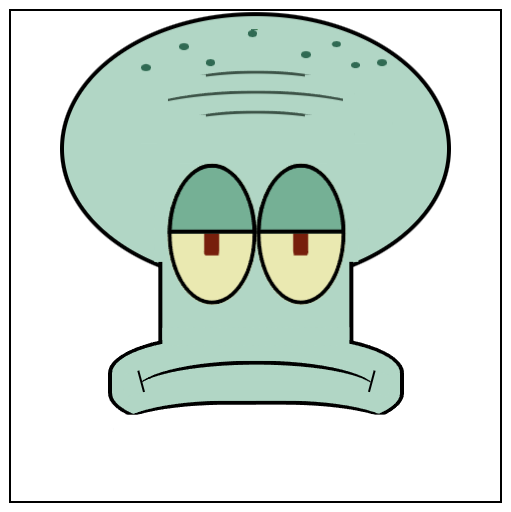
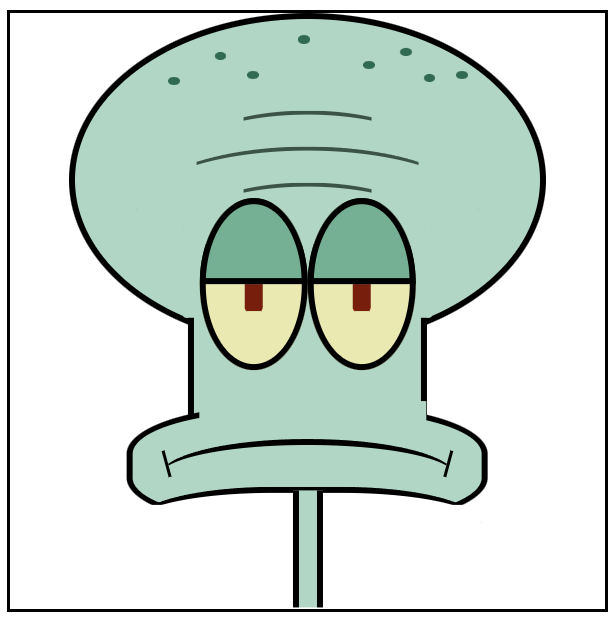
Version 0.1.0

diff --git a/style/index.sass b/style/index.sass
@@ -45,10 +45,8 @@ body
   position: relative
   font-size: calc(2vh + 2vw)
   @include square(20em)
-  
   @include flexCenterItems
   align-items: initial
-
 
   .head
     @include square(80%)
@@ -58,7 +56,7 @@ body
       @include rectangle(100%, 70%)
       border-radius: 100%
       background: $skinColor
-      transform: translateY(calc(var(--looking) * .6em)) rotateY(calc(var(--looking) * -2deg))
+      transform: translateY(calc(var(--is-looking) * .6em))
       .freckles
         position: relative
         @include square(100%)
@@ -68,7 +66,7 @@ body
           border-radius: 100%
           position: absolute
           top: calc(var(--y) * 1%)
-          left: calc((var(--x) * 1%) + (var(--looking) * 1%))
+          left: calc((var(--x) * 1%) + (var(--looking) * 3%))
       .wrinkles
         @include absoluteCenterSelf
         @include flexCenterItems
@@ -102,10 +100,12 @@ body
       left: calc(50% + var(--looking) * 10%)
       &::before
         @include pseudoElement
-        @include rectangle(110%, 39%)
+        @include rectangle(110%, calc(39% + var(--looking) * 13%))
+        // transform: rotate(calc(-7.5deg + var(--looking) * -15deg))
         background: $skinColor
+        border-radius: .1em
         left: -5%
-        top: -5%
+        top: -5.1%
       .eyes
         display: flex
         @include absoluteCenterSelf
@@ -146,11 +146,6 @@ body
       // .nose
 
 
-            
-
-
-
-
     .bottom
       position: relative
       @include rectangle(100%, 20%)
@@ -177,10 +172,11 @@ body
           background: white
           top: 86%
         span
-          @include rectangle(65.5%, 20%)
+          @include rectangle(65%, 20%)
           @include absoluteCenterSelf
           background: $skinColor
-          top: -2%
+          top: 0%
+          left: calc(50% + (1.5% + var(--looking) * 3%))
         .lips
           @include rectangle(85%, 70%)
           border-top: $border
@@ -202,3 +198,10 @@ body
             left: initial
             right: -5%
             transform: rotate(15deg)
+  .neck
+    @include rectangle(1em, 3.9em)
+    @include absoluteCenterSelf
+    top: 90%
+    background: $skinColor
+    border-right: $border
+    border-left: $border

diff --git a/script/index.js b/script/index.js
@@ -1,26 +1,56 @@
 const $ = (x) => document.querySelector(x)
 const squidward = $(".squidward")
-const lookingAnimation = () => {
-  document.addEventListener("DOMContentLoaded", () => {
-  
-    var increment = 0.01
-    const invertDelay = 50 // loops to wait to reverse
-    var delay = 0
-    var looking = 0
-    setInterval(() => {
-      if (delay > 0) {
-        delay -= 1
-        return
-      }
-      looking += increment
-      if (looking > 1 || looking < 0) {
-        increment *= -1
-        delay = invertDelay
-        return
-      }
-      squidward.setAttribute("style", `--looking: ${looking}`)
-    }, 20)
-  })
+var looking = 0
+var anim = null
+
+const lookingAnimation = (
+  increment = 0.01,
+  invertDelay = 50,
+  negative = false,
+  stopOnDelay = false
+) => {
+  // invertDelay = loops to wait to reverse
+  var delay = 0
+  console.log("run")
+  const min = negative ? -1 : 0
+  anim = setInterval(() => {
+    if (delay > 0) {
+      delay -= 1
+      console.log(delay)
+      if (delay == 0 && stopOnDelay) clearInterval(anim)
+      return
+    }
+    looking += increment
+    if (looking > 1 || looking < min) {
+      increment *= -1
+      delay = invertDelay
+      return
+    }
+    squidward.setAttribute(
+      "style",
+      `--is-looking: ${
+        looking == 0 ? 0 : Math.abs(looking)
+      };--looking: ${looking}`
+    )
+  }, 20)
 }
-// squidward.setAttribute("style", `--looking: 0`)
-lookingAnimation()
+
+document.addEventListener("keydown", (ev) => {
+  let run = 0
+  const style = squidward.getAttribute("style") || ""
+  switch (ev.key) {
+    case "a":
+      if (style.indexOf("--looking: -1") == -1) run = -1
+      break
+    case "d":
+      if (style.indexOf("--looking: 1") == -1) run = 1
+      break
+  }
+  if (run) {
+    clearInterval(anim)
+    lookingAnimation(0.1 * run, 1, true, true)
+  }
+})
+
+// squidward.setAttribute("style", `--looking: -1`)
+// lookingAnimation(0.1, 60, true)

diff --git a/readme.md b/readme.md
@@ -7,8 +7,11 @@ Not finished yet!
 Looking to front  
 ![](images/front.png)
 
-Looking to side  
-![](images/side.png)
+Looking to right  
+![](images/right.png)
+
+Looking to left  
+![](images/left.png)
 
 ## License
 

diff --git a/changelog.md b/changelog.md
@@ -3,3 +3,5 @@
 ## Version 0.1.0 (2023/03/10)
 
 - Init
+- glitchy version
+- look to right too
